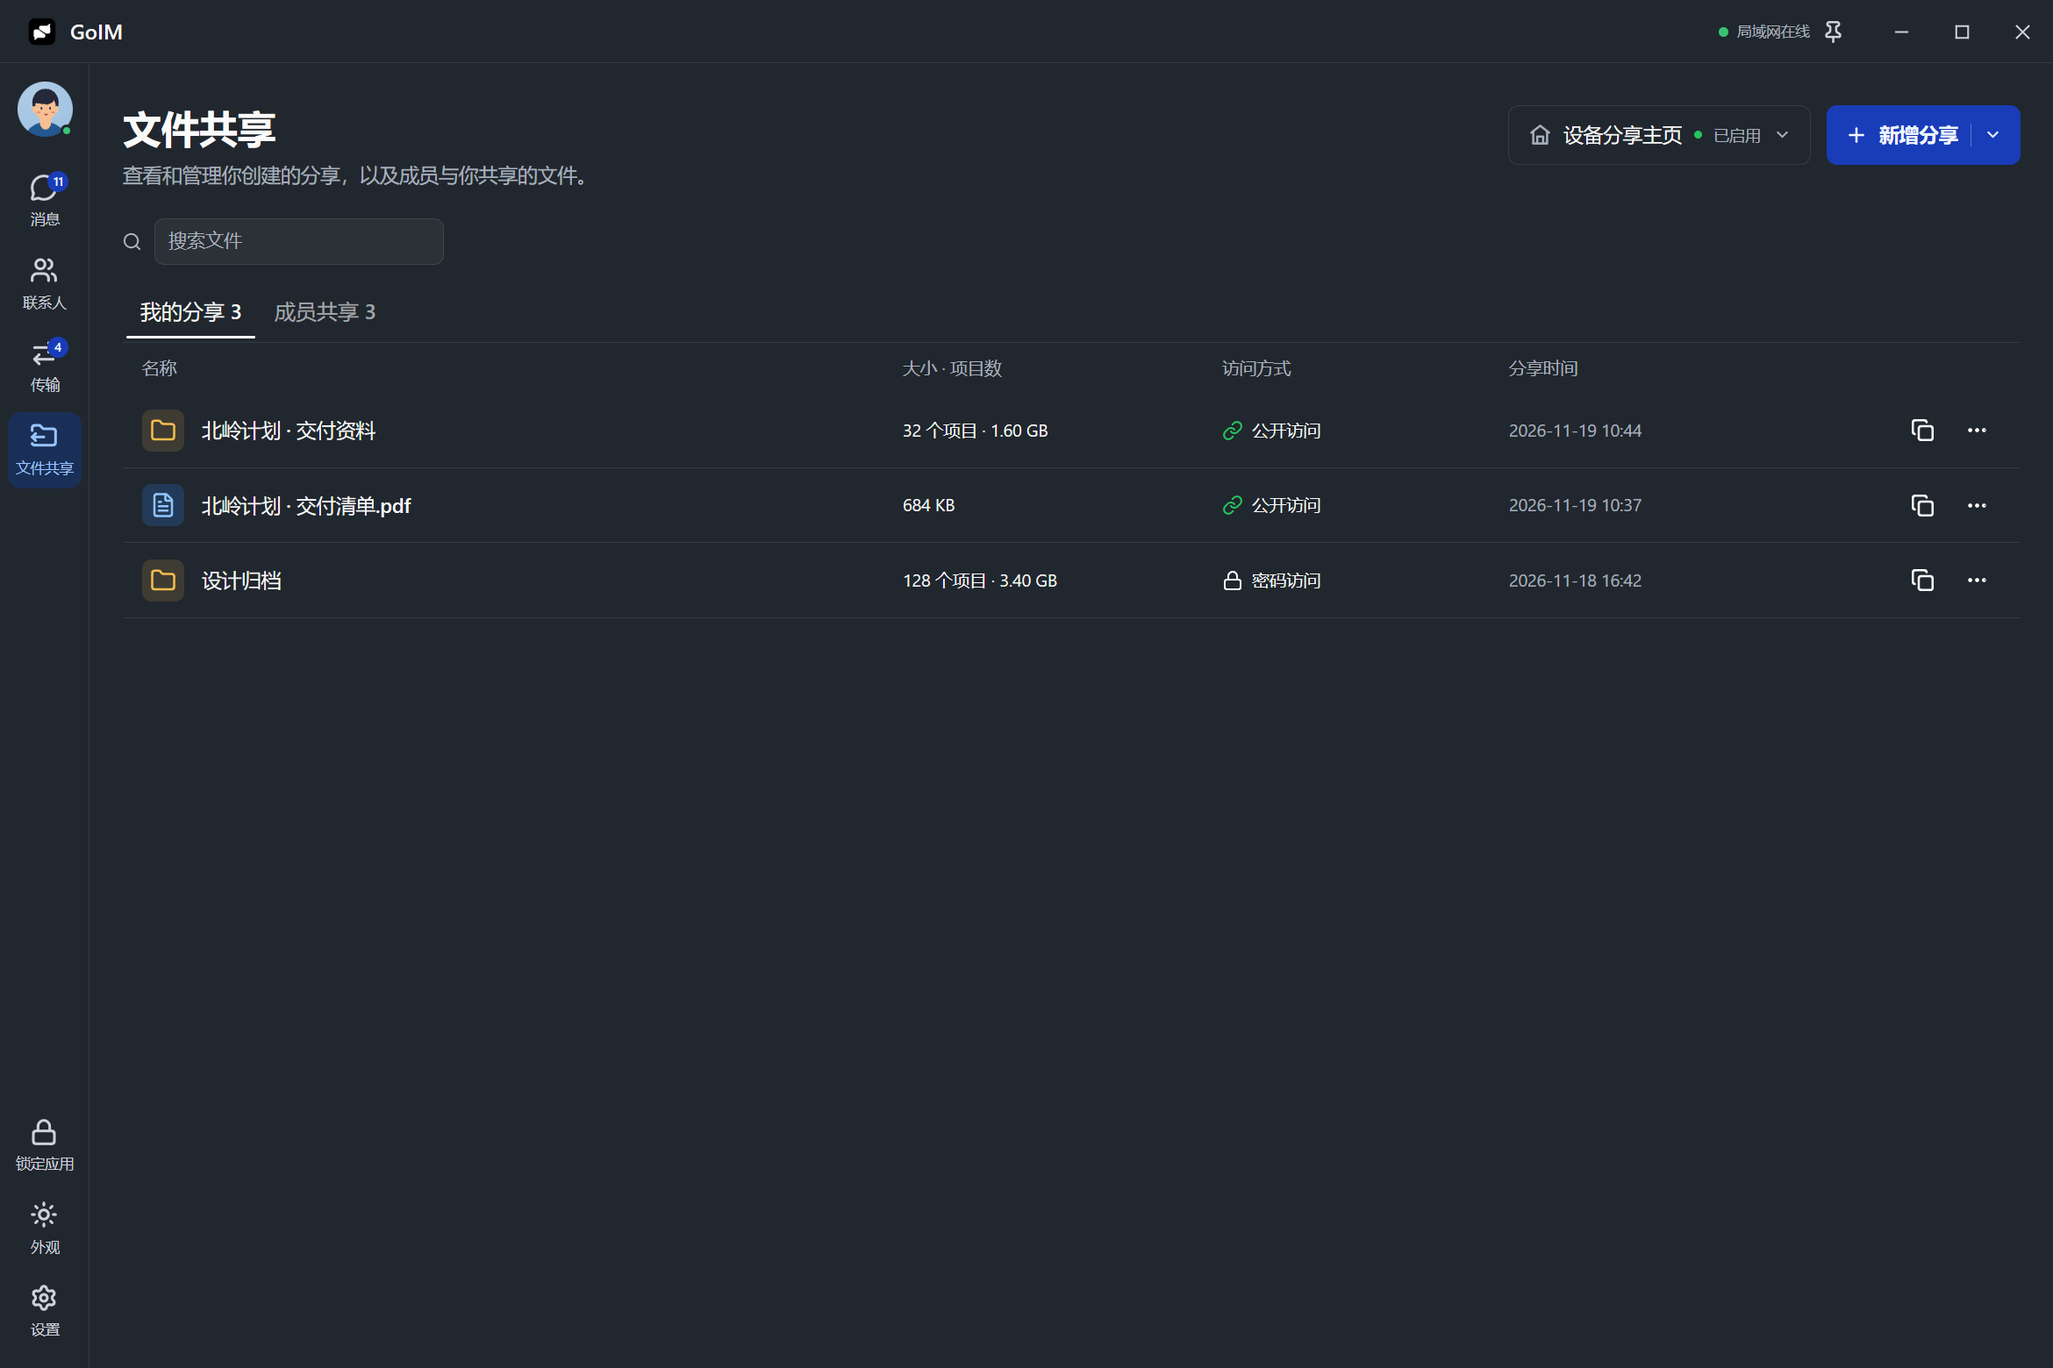
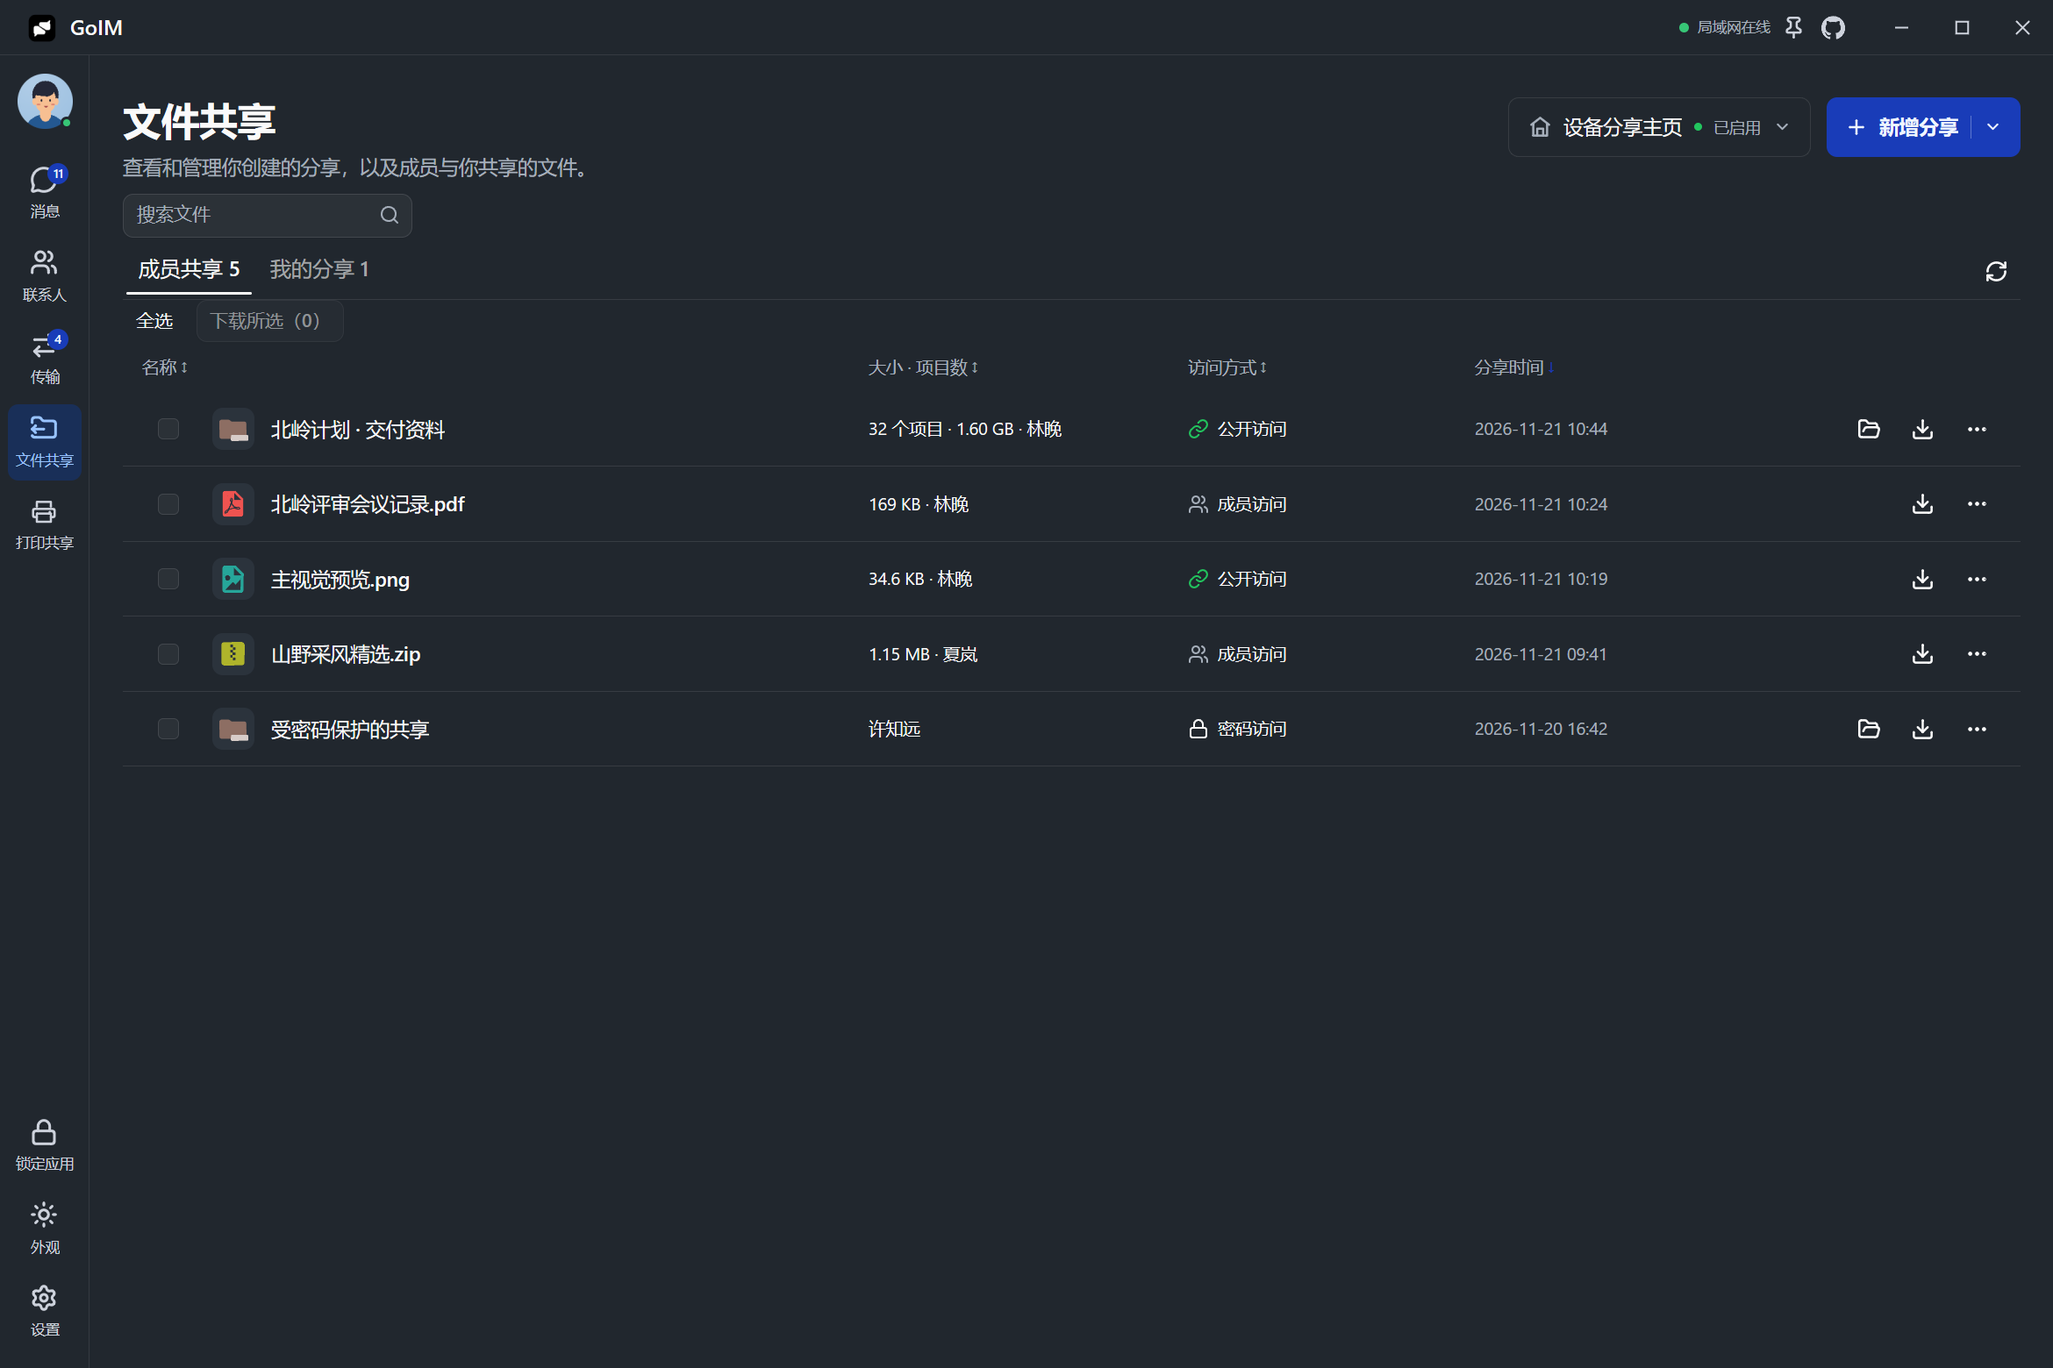
Build GoIM 0.1.19 with the synchronized Viva fork and refresh sharing screenshots

diff --git a/website/en/index.html b/website/en/index.html
@@ -66,8 +66,8 @@
             <a class="slide" href="../assets/screenshots/chat-dark.png" data-title="Group chat in dark mode" data-caption="Open shared images and attachments alongside the conversation."><img src="../assets/screenshots/chat-dark.png" alt="Group chat in dark mode" width="2340" height="1560" fetchpriority="high"></a>
             <a class="slide" href="../assets/screenshots/chat-light.png" data-title="Group chat in light mode" data-caption="The same conversation and file panel in the light appearance." aria-hidden="true" tabindex="-1"><img src="../assets/screenshots/chat-light.png" alt="Group chat in light mode" width="2340" height="1560" loading="lazy"></a>
             <a class="slide" href="../assets/screenshots/contacts-light.png" data-title="Contacts and groups" data-caption="Find a teammate by group, open their profile and start a chat." aria-hidden="true" tabindex="-1"><img src="../assets/screenshots/contacts-light.png" alt="Contacts and groups" width="2340" height="1560" loading="lazy"></a>
-            <a class="slide" href="../assets/screenshots/transfers-dark.png" data-title="Transfer queue" data-caption="Accept files, check progress and retry interrupted transfers in one place." aria-hidden="true" tabindex="-1"><img src="../assets/screenshots/transfers-dark.png" alt="Transfer queue" width="2340" height="1560" loading="lazy"></a>
-            <a class="slide" href="../assets/screenshots/shares-light.png" data-title="Desktop file shares" data-caption="Manage shared items, passwords and browser links." aria-hidden="true" tabindex="-1"><img src="../assets/screenshots/shares-light.png" alt="Desktop file shares" width="2340" height="1560" loading="lazy"></a>
+            <a class="slide" href="../assets/screenshots/transfers-dark.png" data-title="Transfer queue" data-caption="Track progress and see which downloads came from chats, shared folders or the web." aria-hidden="true" tabindex="-1"><img src="../assets/screenshots/transfers-dark.png" alt="Transfer queue" width="2340" height="1560" loading="lazy"></a>
+            <a class="slide" href="../assets/screenshots/shares-light.png" data-title="Desktop file shares" data-caption="Browse shared folders, select several items or download an entire directory." aria-hidden="true" tabindex="-1"><img src="../assets/screenshots/shares-light.png" alt="Desktop file shares" width="2340" height="1560" loading="lazy"></a>
           </div>
         </div>
         <div class="tour-caption js-only"><strong></strong><p></p></div>
@@ -94,11 +94,11 @@
         <div><h3>Conversation files, next to the chat</h3><p>Find shared documents, images and attachments in the file panel while keeping the surrounding conversation in view.</p></div>
       </article>
       <article class="screen-row" id="screen-lan-share-directory">
-        <a class="shot" href="../assets/screenshots/lan-share-directory.png" aria-label="Send a folder as a link · View full image"><img src="../assets/screenshots/lan-share-directory.png" alt="Send a folder as a link" width="1920" height="1200" loading="lazy"></a>
+        <a class="shot" href="../assets/screenshots/lan-share-directory.png" aria-label="Send a folder as a link · View full image"><img src="../assets/screenshots/lan-share-directory.png" alt="Send a folder as a link" width="1440" height="900" loading="lazy"></a>
         <div><h3>Send a folder as a link</h3><p>Recipients browse and download from a directory in their browser. Enable the device page to accept uploads by button or drag and drop.</p></div>
       </article>
       <article class="screen-row" id="screen-print-sharing">
-        <a class="shot" href="../assets/screenshots/print-sharing.png" aria-label="Use a teammate’s printer · View full image"><img src="../assets/screenshots/print-sharing.png" alt="Use a teammate’s printer" width="1920" height="1200" loading="lazy"></a>
+        <a class="shot" href="../assets/screenshots/print-sharing.png" aria-label="Use a teammate’s printer · View full image"><img src="../assets/screenshots/print-sharing.png" alt="Use a teammate’s printer" width="2340" height="1560" loading="lazy"></a>
         <div><h3>Use a teammate’s printer</h3><p>Check availability and paper sizes before submitting a file. Recent prints keeps the job and its status in view.</p></div>
       </article>
     </section>

diff --git a/website/index.html b/website/index.html
@@ -66,8 +66,8 @@
             <a class="slide" href="assets/screenshots/chat-dark.png" data-title="深色群聊" data-caption="在会话旁查看聊天文件，图片和附件都能从原消息打开。"><img src="assets/screenshots/chat-dark.png" alt="深色群聊" width="2340" height="1560" fetchpriority="high"></a>
             <a class="slide" href="assets/screenshots/chat-light.png" data-title="浅色群聊" data-caption="同一个群聊、同一份文件列表，也可以切换到浅色外观。" aria-hidden="true" tabindex="-1"><img src="assets/screenshots/chat-light.png" alt="浅色群聊" width="2340" height="1560" loading="lazy"></a>
             <a class="slide" href="assets/screenshots/contacts-light.png" data-title="联系人与分组" data-caption="按分组找同事，打开资料即可发起会话。" aria-hidden="true" tabindex="-1"><img src="assets/screenshots/contacts-light.png" alt="联系人与分组" width="2340" height="1560" loading="lazy"></a>
-            <a class="slide" href="assets/screenshots/transfers-dark.png" data-title="传输队列" data-caption="在同一处接收附件、查看进度和重试中断的传输。" aria-hidden="true" tabindex="-1"><img src="assets/screenshots/transfers-dark.png" alt="传输队列" width="2340" height="1560" loading="lazy"></a>
-            <a class="slide" href="assets/screenshots/shares-light.png" data-title="桌面文件共享" data-caption="管理分享项目、访问密码和浏览器链接。" aria-hidden="true" tabindex="-1"><img src="assets/screenshots/shares-light.png" alt="桌面文件共享" width="2340" height="1560" loading="lazy"></a>
+            <a class="slide" href="assets/screenshots/transfers-dark.png" data-title="传输队列" data-caption="在传入列表中查看聊天、文件分享和网页接收的来源、进度和状态。" aria-hidden="true" tabindex="-1"><img src="assets/screenshots/transfers-dark.png" alt="传输队列" width="2340" height="1560" loading="lazy"></a>
+            <a class="slide" href="assets/screenshots/shares-light.png" data-title="桌面文件共享" data-caption="浏览成员共享的文件夹，勾选多个项目或下载整个目录。" aria-hidden="true" tabindex="-1"><img src="assets/screenshots/shares-light.png" alt="桌面文件共享" width="2340" height="1560" loading="lazy"></a>
           </div>
         </div>
         <div class="tour-caption js-only"><strong></strong><p></p></div>
@@ -94,11 +94,11 @@
         <div><h3>聊天文件就在会话旁边</h3><p>群里发过的方案、图片和附件集中在右侧文件栏。查看文件时，仍然能看到讨论它的那段对话。</p></div>
       </article>
       <article class="screen-row" id="screen-lan-share-directory">
-        <a class="shot" href="assets/screenshots/lan-share-directory.png" aria-label="把一个文件夹发成链接 · 查看原图"><img src="assets/screenshots/lan-share-directory.png" alt="把一个文件夹发成链接" width="1920" height="1200" loading="lazy"></a>
+        <a class="shot" href="assets/screenshots/lan-share-directory.png" aria-label="把一个文件夹发成链接 · 查看原图"><img src="assets/screenshots/lan-share-directory.png" alt="把一个文件夹发成链接" width="1440" height="900" loading="lazy"></a>
         <div><h3>把一个文件夹发成链接</h3><p>收件人在浏览器中按目录浏览和下载。启用设备分享主页后，也可以点「上传文件」或直接把文件拖进页面。</p></div>
       </article>
       <article class="screen-row" id="screen-print-sharing">
-        <a class="shot" href="assets/screenshots/print-sharing.png" aria-label="用上同事桌边的打印机 · 查看原图"><img src="assets/screenshots/print-sharing.png" alt="用上同事桌边的打印机" width="1920" height="1200" loading="lazy"></a>
+        <a class="shot" href="assets/screenshots/print-sharing.png" aria-label="用上同事桌边的打印机 · 查看原图"><img src="assets/screenshots/print-sharing.png" alt="用上同事桌边的打印机" width="2340" height="1560" loading="lazy"></a>
         <div><h3>用上同事桌边的打印机</h3><p>先看设备是否在线、支持哪种纸张，再提交文件。在「最近打印」里就能找到刚刚的任务。</p></div>
       </article>
     </section>

diff --git a/internal/desktop/promo_screenshot_test.go b/internal/desktop/promo_screenshot_test.go
@@ -155,7 +155,7 @@ func TestPromoScreenshots(t *testing.T) {
 	shot("contacts-light")
 
 	click(shell.ids.navTransfers)
-	for _, label := range []string{"文件传输", "待接收 2", "北岭计划 · 交付资料.zip", "品牌字体授权包.zip"} {
+	for _, label := range []string{"文件传输", "待接收 2", "来源", "网页接收", "北岭计划 · 交付资料", "品牌字体授权包.zip"} {
 		waitText(label)
 		if err := session.Expect("text", label); err != nil {
 			t.Fatal(err)
@@ -164,7 +164,7 @@ func TestPromoScreenshots(t *testing.T) {
 	shot("transfers-light")
 
 	click(shell.ids.navShares)
-	for _, label := range []string{"文件共享", "设备分享主页", "北岭计划 · 交付资料", "设计归档", "密码访问"} {
+	for _, label := range []string{"文件共享", "设备分享主页", "北岭计划 · 交付资料", "北岭评审会议记录.pdf", "密码访问"} {
 		waitText(label)
 		if err := session.Expect("text", label); err != nil {
 			t.Fatal(err)
@@ -172,6 +172,12 @@ func TestPromoScreenshots(t *testing.T) {
 	}
 	shot("shares-light")
 
+	click(shell.ids.navPrint)
+	for _, label := range []string{"打印共享", "共享人", "打印能力", "最近打印", "北岭评审议程.pdf"} {
+		waitText(label)
+	}
+	shot("print-sharing")
+	click(shell.ids.navShares)
 	setTheme("dark")
 	shot("shares-dark")
 	click(shell.ids.navTransfers)
@@ -305,12 +311,14 @@ func promoState(t *testing.T) domain.State {
 	state.Files = append(state.Files,
 		domain.File{
 			ID: "delivery", Name: "北岭计划 · 交付资料", Size: 1717986918, ShareFolder: true,
-			ShareEntryCount: 32, SenderID: "self", Shared: true, CreatedAt: at(2),
-			ShareURL: "http://192.168.50.18:47842/s/delivery",
+			ShareEntryCount: 32, SenderID: "lin", Shared: true, CreatedAt: at(2),
+			MemberURL: "http://192.168.50.21:47842/s/delivery",
+			ShareURL:  "http://192.168.50.18:47842/s/delivery",
 		},
 		domain.File{
 			ID: "archive", Name: "设计归档", Size: 3650722201, ShareFolder: true,
-			ShareEntryCount: 128, SenderID: "self", Shared: true, ShareProtected: true,
+			ShareEntryCount: 128, SenderID: "xu", Shared: true, ShareProtected: true,
+			MemberURL: "http://192.168.50.22:47842/s/archive",
 			CreatedAt: at(-1080), ShareURL: "http://192.168.50.18:47842/s/archive",
 		},
 		domain.File{
@@ -350,14 +358,18 @@ func promoState(t *testing.T) domain.State {
 			Size: 25395, UpdatedAt: at(-1),
 		},
 		domain.Transfer{
-			ID: "incoming-archive", FileID: "archive-offer", ConversationID: "north", PeerID: "xia",
-			Direction: "receive", Status: "transferring", Name: "北岭计划 · 交付资料.zip",
+			ID: "incoming-archive", FileID: "delivery", FromShare: true, ShareProject: "delivery", ShareFolder: true, PeerID: "lin",
+			Direction: "receive", Status: "transferring", Name: "北岭计划 · 交付资料",
 			Size: 1717986918, Done: 1170000000, Speed: 25794970, UpdatedAt: at(0),
 		},
 		domain.Transfer{
 			ID: "incoming-fonts", FileID: "font-offer", ConversationID: "north", PeerID: "su",
 			Direction: "receive", Status: "offered", Name: "品牌字体授权包.zip",
 			Size: 586 * 1024 * 1024, UpdatedAt: at(-9),
+		},
+		domain.Transfer{
+			ID: "web-receive", FileID: "web-file", WebSender: "192.168.50.28", Direction: "receive",
+			Status: "completed", Name: "会场平面图.pdf", Size: 482734, Done: 482734, UpdatedAt: at(-2),
 		},
 		domain.Transfer{
 			ID: "failed-render", FileID: "render-file", ConversationID: "north", PeerID: "xu",
@@ -381,6 +393,27 @@ func promoState(t *testing.T) domain.State {
 			ID: fmt.Sprintf("north-%d", i), ConversationID: "north", SenderID: m.sender, Kind: m.kind,
 			Text: m.text, FileID: m.file, Status: "delivered", CreatedAt: at(m.minutes),
 		})
+	}
+	capabilities := domain.PrintCapabilities{
+		Papers: []string{"A4", "A3"}, ColorModes: []string{domain.PrintColorMonochrome, domain.PrintColorColor},
+		DuplexModes: []string{domain.PrintDuplexSimplex, domain.PrintDuplexLongEdge},
+	}
+	state.Printers = []domain.PrinterShare{
+		{ID: "studio", OwnerID: "lin", OwnerName: "林晚", Name: "设计室 · 彩色打印机", Capabilities: capabilities, Available: true},
+		{ID: "meeting", OwnerID: "xu", OwnerName: "许知远", Name: "会议室 · 双面打印机", Available: true,
+			Capabilities: domain.PrintCapabilities{Papers: []string{"A4"}, DuplexModes: []string{domain.PrintDuplexLongEdge}}},
+		{ID: "front", OwnerID: "xia", OwnerName: "夏岚", Name: "前台 · 文档打印机", Capabilities: domain.PrintCapabilities{Papers: []string{"A4"}}},
+	}
+	for i, name := range []string{"北岭评审议程.pdf", "主视觉校样.pdf", "场地布置清单.pdf"} {
+		printer := state.Printers[i%2]
+		status := domain.PrintStatusCompleted
+		if i == 0 {
+			status = domain.PrintStatusQueued
+		}
+		state.PrintJobs = append(state.PrintJobs, domain.PrintJob{ID: fmt.Sprintf("print-%d", i),
+			PrinterID: printer.ID, PrinterName: printer.Name, PrinterOwnerID: printer.OwnerID, PrinterOwnerName: printer.OwnerName,
+			SenderID: state.Self.ID, SenderName: state.Self.Name, FileName: name, Status: status,
+			Options: domain.PrintOptions{Paper: "A4", Copies: 1}, CreatedAt: at(-12 - i*15), UpdatedAt: at(-10 - i*15)})
 	}
 	return state
 }

diff --git a/README.en.md b/README.en.md
@@ -24,11 +24,11 @@ GoIM is a desktop messenger built with Go and [Viva](https://github.com/vivaui/v
 <table>
   <tr>
     <td width="50%"><a href="website/assets/screenshots/contacts-light.png"><img src="website/assets/screenshots/contacts-light.png" alt="Grouped contacts and presence" /></a><strong>Contacts</strong></td>
-    <td width="50%"><a href="website/assets/screenshots/transfers-dark.png"><img src="website/assets/screenshots/transfers-dark.png" alt="The incoming queue and active transfers in dark mode" /></a><strong>Transfers</strong></td>
+    <td width="50%"><a href="website/assets/screenshots/transfers-dark.png"><img src="website/assets/screenshots/transfers-dark.png" alt="Incoming transfers showing chat, file share and web sources alongside progress" /></a><strong>Transfers</strong></td>
   </tr>
   <tr>
-    <td width="50%"><a href="website/assets/screenshots/shares-light.png"><img src="website/assets/screenshots/shares-light.png" alt="File shares and password protection in the desktop app" /></a><strong>Desktop file sharing</strong></td>
-    <td width="50%"><a href="website/assets/screenshots/lan-share-directory.png"><img src="website/assets/screenshots/lan-share-directory.png" alt="LAN share directory showing file names, types and sizes, with an upload button at the top right" /></a><strong>LAN file sharing in a browser</strong></td>
+    <td width="50%"><a href="website/assets/screenshots/shares-light.png"><img src="website/assets/screenshots/shares-light.png" alt="Member shares with file and folder selection, access modes and downloads" /></a><strong>Desktop file sharing</strong></td>
+    <td width="50%"><a href="website/assets/screenshots/lan-share-directory.png"><img src="website/assets/screenshots/lan-share-directory.png" alt="Shared folder in a browser with file type icons, sizes and download links" /></a><strong>LAN file sharing in a browser</strong></td>
   </tr>
   <tr>
     <td width="50%"><a href="website/assets/screenshots/print-sharing.png"><img src="website/assets/screenshots/print-sharing.png" alt="Three shared printers with availability, paper sizes, color and duplex options, followed by recent jobs" /></a><strong>Printer sharing</strong></td>

diff --git a/docs/releases/0.1.19.md b/docs/releases/0.1.19.md
@@ -28,6 +28,9 @@
 - 文件被移除后，它原来的下载链接会失效，后加入的文件会获得独立链接。同名文件批量下载时会分别保存，保留接收目录中原有的文件。
 - 修复 Windows 上下载目录经过路径别名时设备分享主页可能无法开启，以及选择目录联接中的共享文件或文件夹可能失败的问题。
 
+- 修复接收内网通文件时进度显示不准、对方重发后无法再次接收，以及图片附带的文字说明显示不全的问题。
+- 更新 Viva 依赖，使用上游合入的 Linux 窗口激活、拖拽预览和 Fcitx 4 输入支持。发行包继续使用 GoIM 的 Viva fork，保留交互式来电浮窗、字号缩放和 Windows 透明文本修复。
+
 ## 安装
 
 | 平台 | 架构 | 安装包 |
